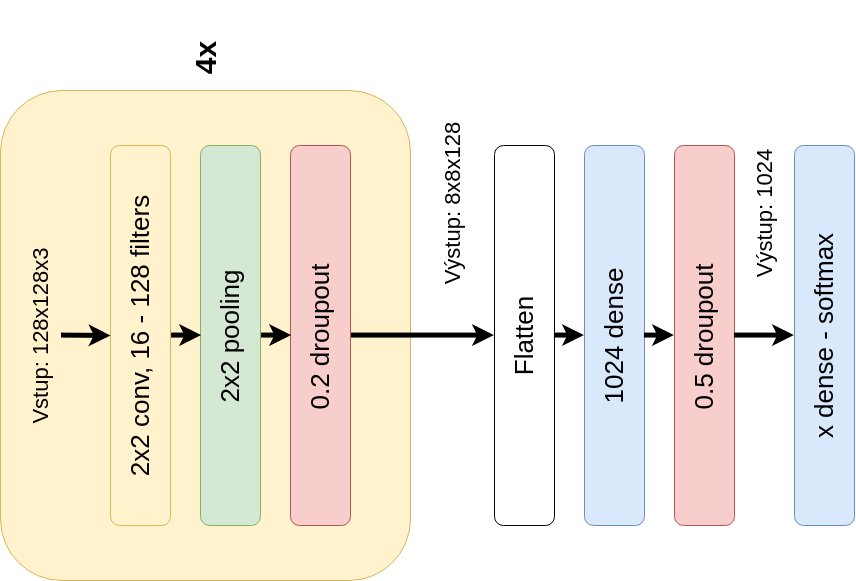
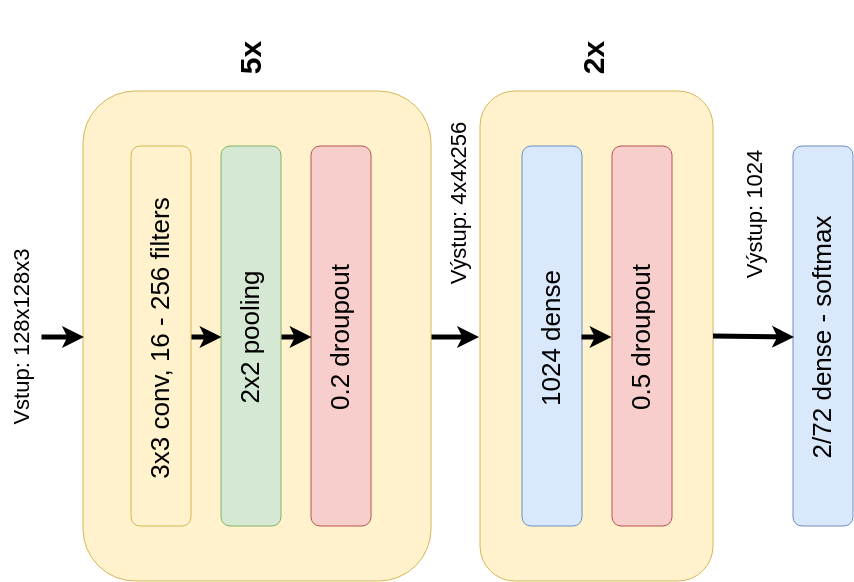
[doc] design CNN architecture

diff --git a/doc/chapters/3-4-architektura-sieti.tex b/doc/chapters/3-4-architektura-sieti.tex
@@ -1,54 +1,61 @@
 
-\section{Architektúry konvolučných neurónových sieti}
+\section{Konvolučné neurónove siete}
 \label{sec:architekuraCNN}
-Model ktorý bol zvolený je inšpirovaný architektúrov AlexNet (vid. \ref{subsec:popularCNN}).
-Architektúra obsahuje celkovo 15 vrstiev z ktorých 4 sú konvolučné, 4 max pooling, 5 dropout vrstiev a 2 dense vrstvy.
-Veľkosť vstupu do prvej vrstvy je 128x128 pixelov.
-Vo všetkých konvolučných vrstvách boli použité filtre o veľkosti 2x2 s krokom 1 a bolo použité nulové zarovnanie
-Každou vrstvou sa množstvo filtrov zdvojnásobuje, s počiatočných 16 až na 128 v poslednej vrstve.
-Pooling vrstvy su typu max, veľkosť zhlukou je 2x2 pixely s posunom 2 do každej osi.
-Za každou pooling vrstvou sa nachádza Droupout vrstva s nastavením 0.2, ciže 20 percent prepojení sa zahadzuje.
 
-Po piatich skupinách konvolučnej, pooling a droupout vrstvy nasleduje dense vrstva s počtom prepojení 1024 a dropout vrstvou s nastavním 0.5.
+\subsection{Nastavenie parametrov}
+Ako bolo spomínane v kapitole \ref{subsec:convolutionalneuralnetwork} je niekoľko parametrov ktoré je potrebné
+    nastaviť v konvolučných a pooling vrstvách.
+Pre správne fungovanie sietie je potrebné nastaviť aj správne hodnoty týchto parametrov, preto v navrhovaných architektúrach budú
+    hodnoty parametrov nastavené na tie najpoužívajšie.
+
+Veľkosť výstupu a správnosť nastavenia parametrov v konvolučnej vrstve je možné výpočítať pomocou vzťahu:
+\begin{equation}
+    \frac{(W - F + 2*P)}{S} + 1
+\end{equation}
+Kde $W$ je veľkosť vstupných dát, $F$ je veľkosť filtra, $P$ je nastavenie zarovnania, v prípade nulového zarovannie je hodnota 1 a $S$ je veľkosť kroku.
+Pre správne nastavenie musí byť výsledna hodnota celé číslo, kde táto výsledna hodnota udáva aj veľkosť výstupu.
+Najpoužívanejšie hodnoty parametrov sú: $F = 3, S = 1, P = 1$ a vstup $W$ o hodnote ktorá je deliteľná číslom 2 \cite{odkaz:CNNArchitecture}.
+
+Funkciou pooling vrstvy je znižovanie dimenzionality a zároveň ponechanie dôležítých informácií, ako najpoužívanejšie hodnoty parametrov sú
+    veľkosť filtra 2x2 s krokom 2 pri použití MaxPooling vrstvy \cite{odkaz:CNNArchitecture}.
+
+\subsection{Návrh architektúr}
+Prvý model siete je inšpirovaný architektúrou AlexNet (vid. \ref{subsec:popularCNN}).
+Model obsahuje celkovo 20 vrstiev z ktorých 5 je konvolučných, 5 max pooling, 7 dropout a 3 dense vrstvy.
+Veľkosť vstupných dát do prvej vrstvy je 128x128x3.
+Vo všetkých konvolučných vrstvách sú použité filtre o veľkosti 3x3 s krokom 1 a použitím nulové zarovnania.
+
+V modely sa každou konvolučnou vrstvou zdvojnásobuje počet filtrov, s počiatočných 16 až na 256 v poslednej vrstve.
+Pooling vrstvy su typu max, veľkosť filtra je 2x2 s posunom 2 po každej osi.
+Za každou pooling vrstvou sa nachádza Droupout vrstva s nastavením 0.2, ciže 20 percent náhodných prepojení sa ignoruje.
+
+Po piatich blokoch konvolučnej, pooling a droupout vrstvy nasledujú 2 dense vrstvy s počtom prepojení 1024 a dropout vrstvou s nastavním 0.5.
 Ako posledná je dense vrstva s 2 alebo 72 prepojeniami a softmax klasifikátorom, počet výstupov záleží či určujeme typ alebo náklon zbrane.
 V celej sieti su použité ReLu aktivačné funkcie.
 
 \begin{figure}[H]
     \centering
     \includegraphics[width=0.6\textwidth]{AlexNet_Like}
-    \caption{Architektúra opísanej siete.}
+    \caption{AlexNet-Like navrhovaná architektúra.}
     \label{pic:kNN}
 \end{figure}
 
-Druhý navrhovaný model je inšpirovaný architektúrov VGG sieti (vid. \ref{subsec:popularCNN}).
-Vzhľadom na možnosti výkonu na ktorom bude trénovanie prebiehať, je navrhovaná sieť o jeden blok vrstviev menšia a taktiež konvolučne vrstvy obsahujú menej filtrov.
+% ----------- DRUHY NAVRH -----------
 
-Celkovo sieť obsahuje 2 bloky po 2 konvolučných vrstvách a pooling vrstve, 2 bloky po 3 konvolučných vrstvách a pooling vrstve a ako posledné
-    sú 2 dense vrstvy s počtom prepojení 2048 a posledná výstupna vrstva s počtom prepojení 2 alebo 72 a softmax klasfikátorom.
-Každá konvolučna vrstva obsahuje filtre o veľkosti 2x2, krokom 1 s použitím nulového doplnku.
-Počty filtrov sa po blokoch zdvojnásobujú od 16 až po 256 filtrov.
-Všetky vrstvy používajú ReLu aktivačnú funkciu.
+Druhý navrhovaný model je inšpirovaný architektúrov VGG sieti (vid. \ref{subsec:popularCNN}).
+Vzhľadom na možnosti výkonu na ktorom bude trénovanie prebiehať, je navrhovaná sieť o dva bloky vrstviev menšia a taktiež konvolučne vrstvy obsahujú menej filtrov.
+
+Celkovo sieť obsahuje 2 bloky obsahujúce 2 konvolučné vrstvy s počtom filtrov 32 a 64, pooling a droupout vrstvu s 20\% ignorovaním prepojení.
+Ďalej nasledujú 3 konvolučné vrstvy so 128 filtrami a pooling vrstva.
+Ako posledné sú 2 bloky obsahujúce dense vrstvu s počtom prepojení 2048 a dropout vrstvu s ignorovaním nastaveným na 50\%.
+Posledná výstupna vrstva obsahuje 2 alebo 72 prepojení so softmax klasfikátorom.
+Každá konvolučna vrstva obsahuje filtre o veľkosti 3x3, krokom 1 a s použitím nulového doplnku.
+Pooling vrstvy su typu max, veľkosť filtra je 2x2 s posunom 2 po každej osi.
+V celej sieti je použitá ReLu aktivačná funkcia.
 
 \begin{figure}[H]
     \centering
     \includegraphics[width=0.8\textwidth]{VGG_Like}
-    \caption{Architektúra opísanej siete.}
+    \caption{VGG-Like navrhovaná architektúra.}
     \label{pic:kNN}
 \end{figure}
-
-\subsection{Hodnotenie presnosti siete}
-
-\begin{comment}
-
-    \begin{figure}[H]
-        \centering
-        \includegraphics[width=0.32\textwidth]{AlexNet_Like}
-        \caption{.}
-        \label{pic:kNN}
-    \end{figure}
-
-    - Pridat ake optimalizatory a celkovo s akymi argumetmi spustat trenovanie, kolko epoch a pod...
-    - Zdovodnovat preco prave taketo nastavenie konvolucnej siete.
-    - pocet epoch bude potrebne zistit experimentalnych sposobom, alebo pouzit funkciu na save best of Keras-u
-
-\end{comment}

diff --git a/doc/chapters/4-0-implementacia.tex b/doc/chapters/4-0-implementacia.tex
@@ -26,3 +26,20 @@
     \end{enumerate}
 
 \end{comment}
+
+\subsection{Hodnotenie presnosti siete}
+
+\begin{comment}
+
+    \begin{figure}[H]
+        \centering
+        \includegraphics[width=0.32\textwidth]{AlexNet_Like}
+        \caption{.}
+        \label{pic:kNN}
+    \end{figure}
+
+    - Pridat ake optimalizatory a celkovo s akymi argumetmi spustat trenovanie, kolko epoch a pod...
+    - Zdovodnovat preco prave taketo nastavenie konvolucnej siete.
+    - pocet epoch bude potrebne zistit experimentalnych sposobom, alebo pouzit funkciu na save best of Keras-u
+
+\end{comment}
